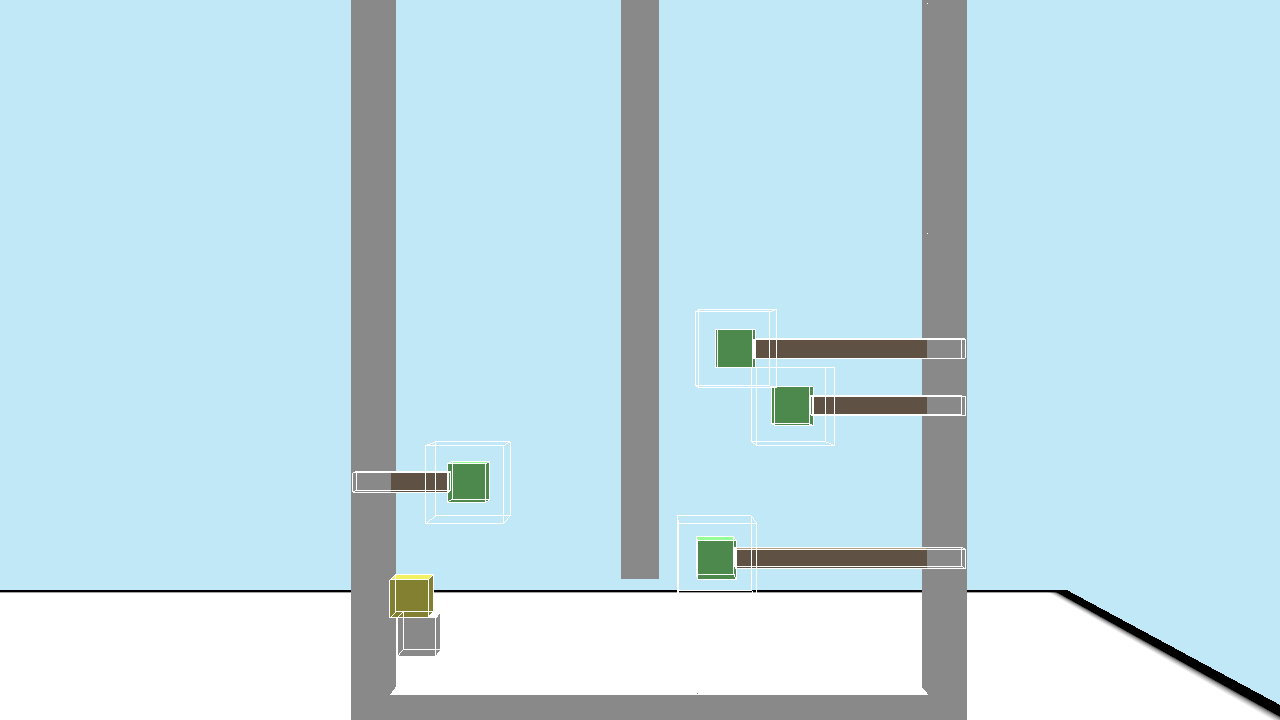
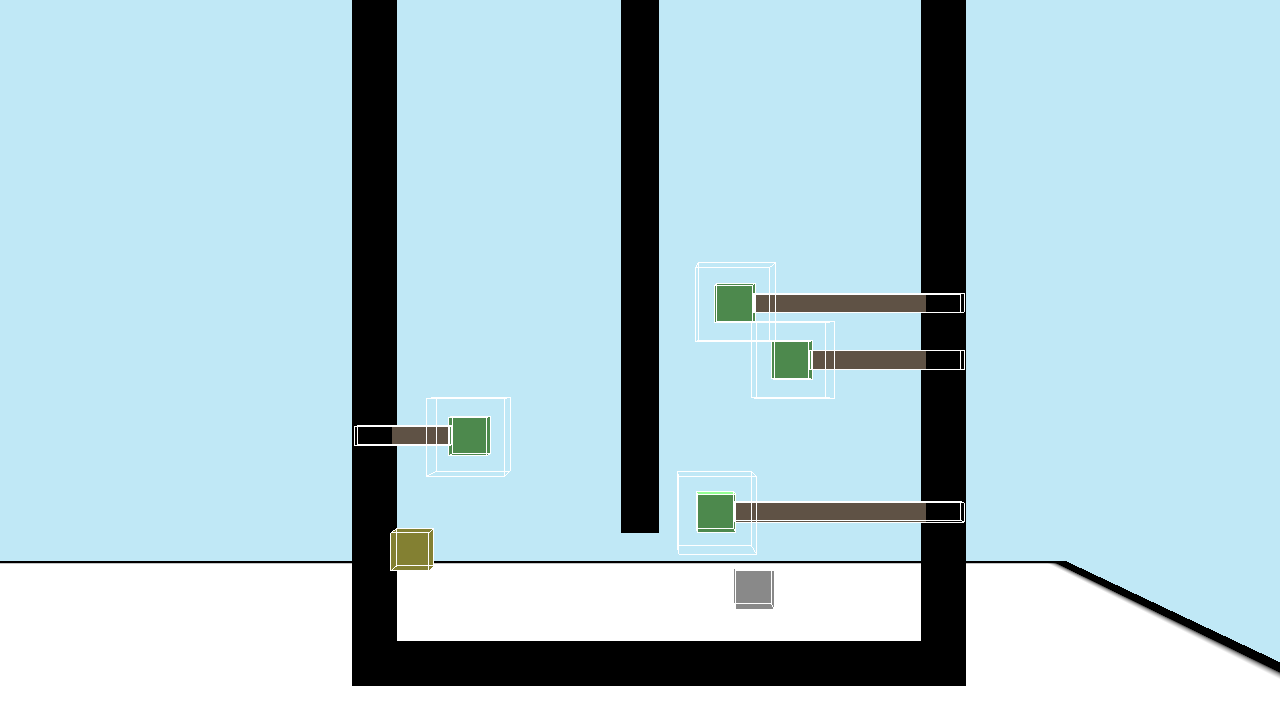
マップチップのα値いじれるようにした フォローカメラの調整 csvの調整

Changed region(s): [[0.0, 0.0, 1.0, 1.0]]

diff --git a/Engine/Graphics/PipelineManager/PipelineManager.cpp b/Engine/Graphics/PipelineManager/PipelineManager.cpp
@@ -361,6 +361,13 @@ void PipelineManager::CreatePSO_Object()
 	D3D12_BLEND_DESC blendDesc{};
 	// 全ての色要素を書き込む
 	blendDesc.RenderTarget[0].RenderTargetWriteMask = D3D12_COLOR_WRITE_ENABLE_ALL;
+	blendDesc.RenderTarget[0].BlendEnable = TRUE;
+	blendDesc.RenderTarget[0].SrcBlend = D3D12_BLEND_SRC_ALPHA;
+	blendDesc.RenderTarget[0].BlendOp = D3D12_BLEND_OP_ADD;
+	blendDesc.RenderTarget[0].DestBlend = D3D12_BLEND_INV_SRC_ALPHA;
+	blendDesc.RenderTarget[0].SrcBlendAlpha = D3D12_BLEND_ONE;
+	blendDesc.RenderTarget[0].BlendOpAlpha = D3D12_BLEND_OP_ADD;
+	blendDesc.RenderTarget[0].DestBlendAlpha = D3D12_BLEND_ZERO;
 	// RasterrizerStateの設定
 	// 裏面（時計回り）を表示しない  [カリング]
 	D3D12_RASTERIZER_DESC rasterrizerDesc{};

diff --git a/Engine/Utility/Systems/MapChip/MapChipInfo.cpp b/Engine/Utility/Systems/MapChip/MapChipInfo.cpp
@@ -33,6 +33,7 @@ void MapChipInfo::InitJson()
 	jsonManager_ = std::make_unique<JsonManager>("MapChipInfo", "Resources/JSON/MapChip/Info");
 	jsonManager_->SetCategory("MapChip");
 	jsonManager_->Register("Color", &color_);
+	jsonManager_->Register("Alpha", &alpha_);
 }
 
 void MapChipInfo::Update()
@@ -57,6 +58,7 @@ void MapChipInfo::Update()
 		for (auto& obj2 : obj) {
 			if (obj2) {
 				obj2->SetMaterialColor(color_);
+				obj2->SetAlpha(alpha_);
 			}
 		}
 	}

diff --git a/Engine/Utility/Systems/MapChip/MapChipField.h b/Engine/Utility/Systems/MapChip/MapChipField.h
@@ -109,7 +109,7 @@ private:
 
     // ブロックの個数
     static inline const uint32_t kNumBlockVertical = 62;      // 縦
-    static inline const uint32_t kNumBlockHorizontal = 16;   // 横  
+    static inline const uint32_t kNumBlockHorizontal = 18;   // 横  
 
 public:
 

diff --git a/Engine/Utility/Systems/MapChip/MapChipInfo.h b/Engine/Utility/Systems/MapChip/MapChipInfo.h
@@ -68,6 +68,7 @@ private:
 	MapChipField* mpField_ = nullptr;
 	std::vector<std::vector<Object3d*>> objects_;
 	std::unique_ptr<JsonManager> jsonManager_;
-	Vector3 color_;
+	Vector3 color_{};
+	float alpha_ = 1.0f;
 };
 
